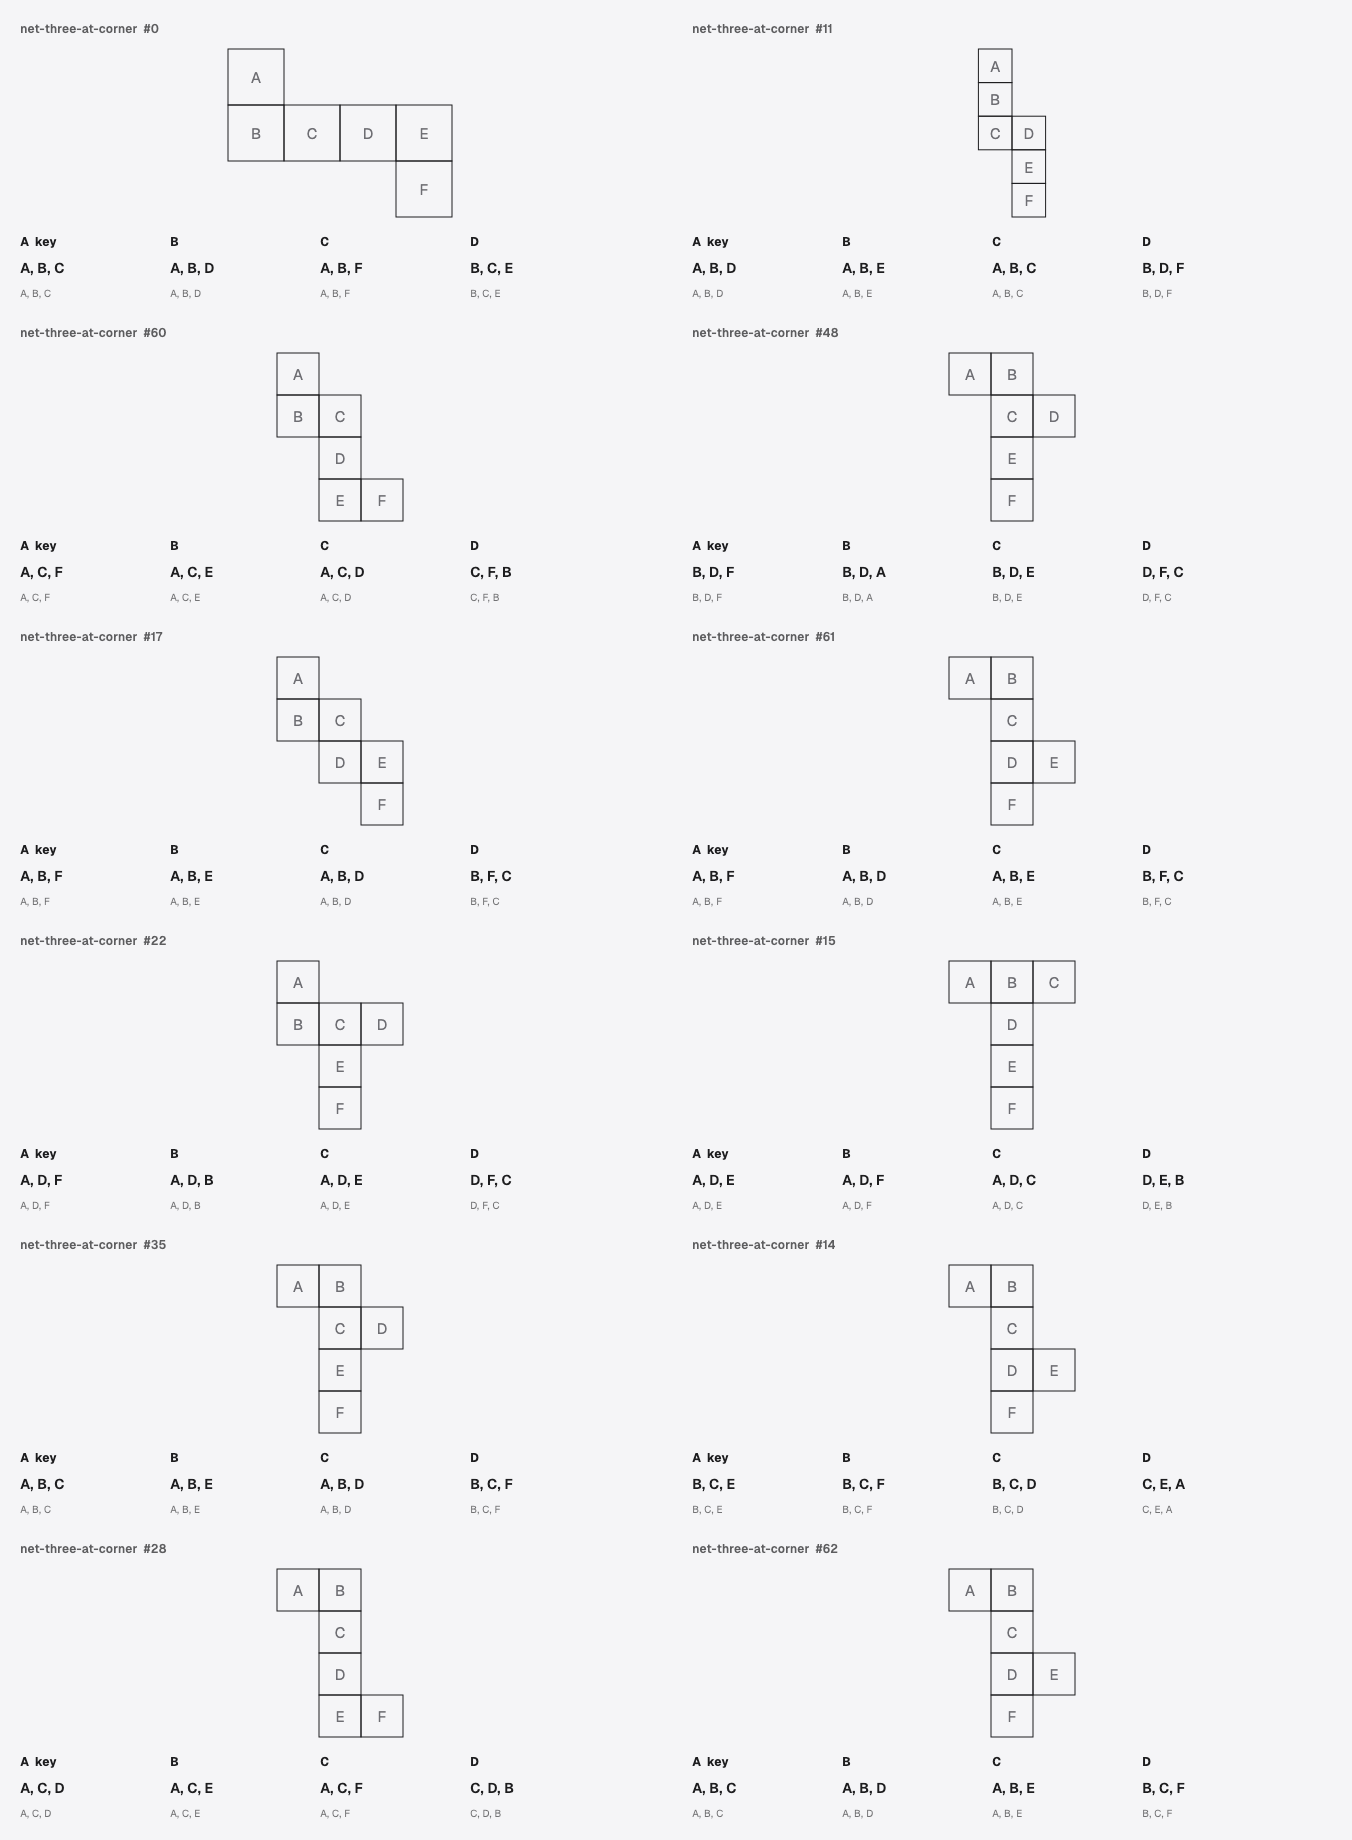
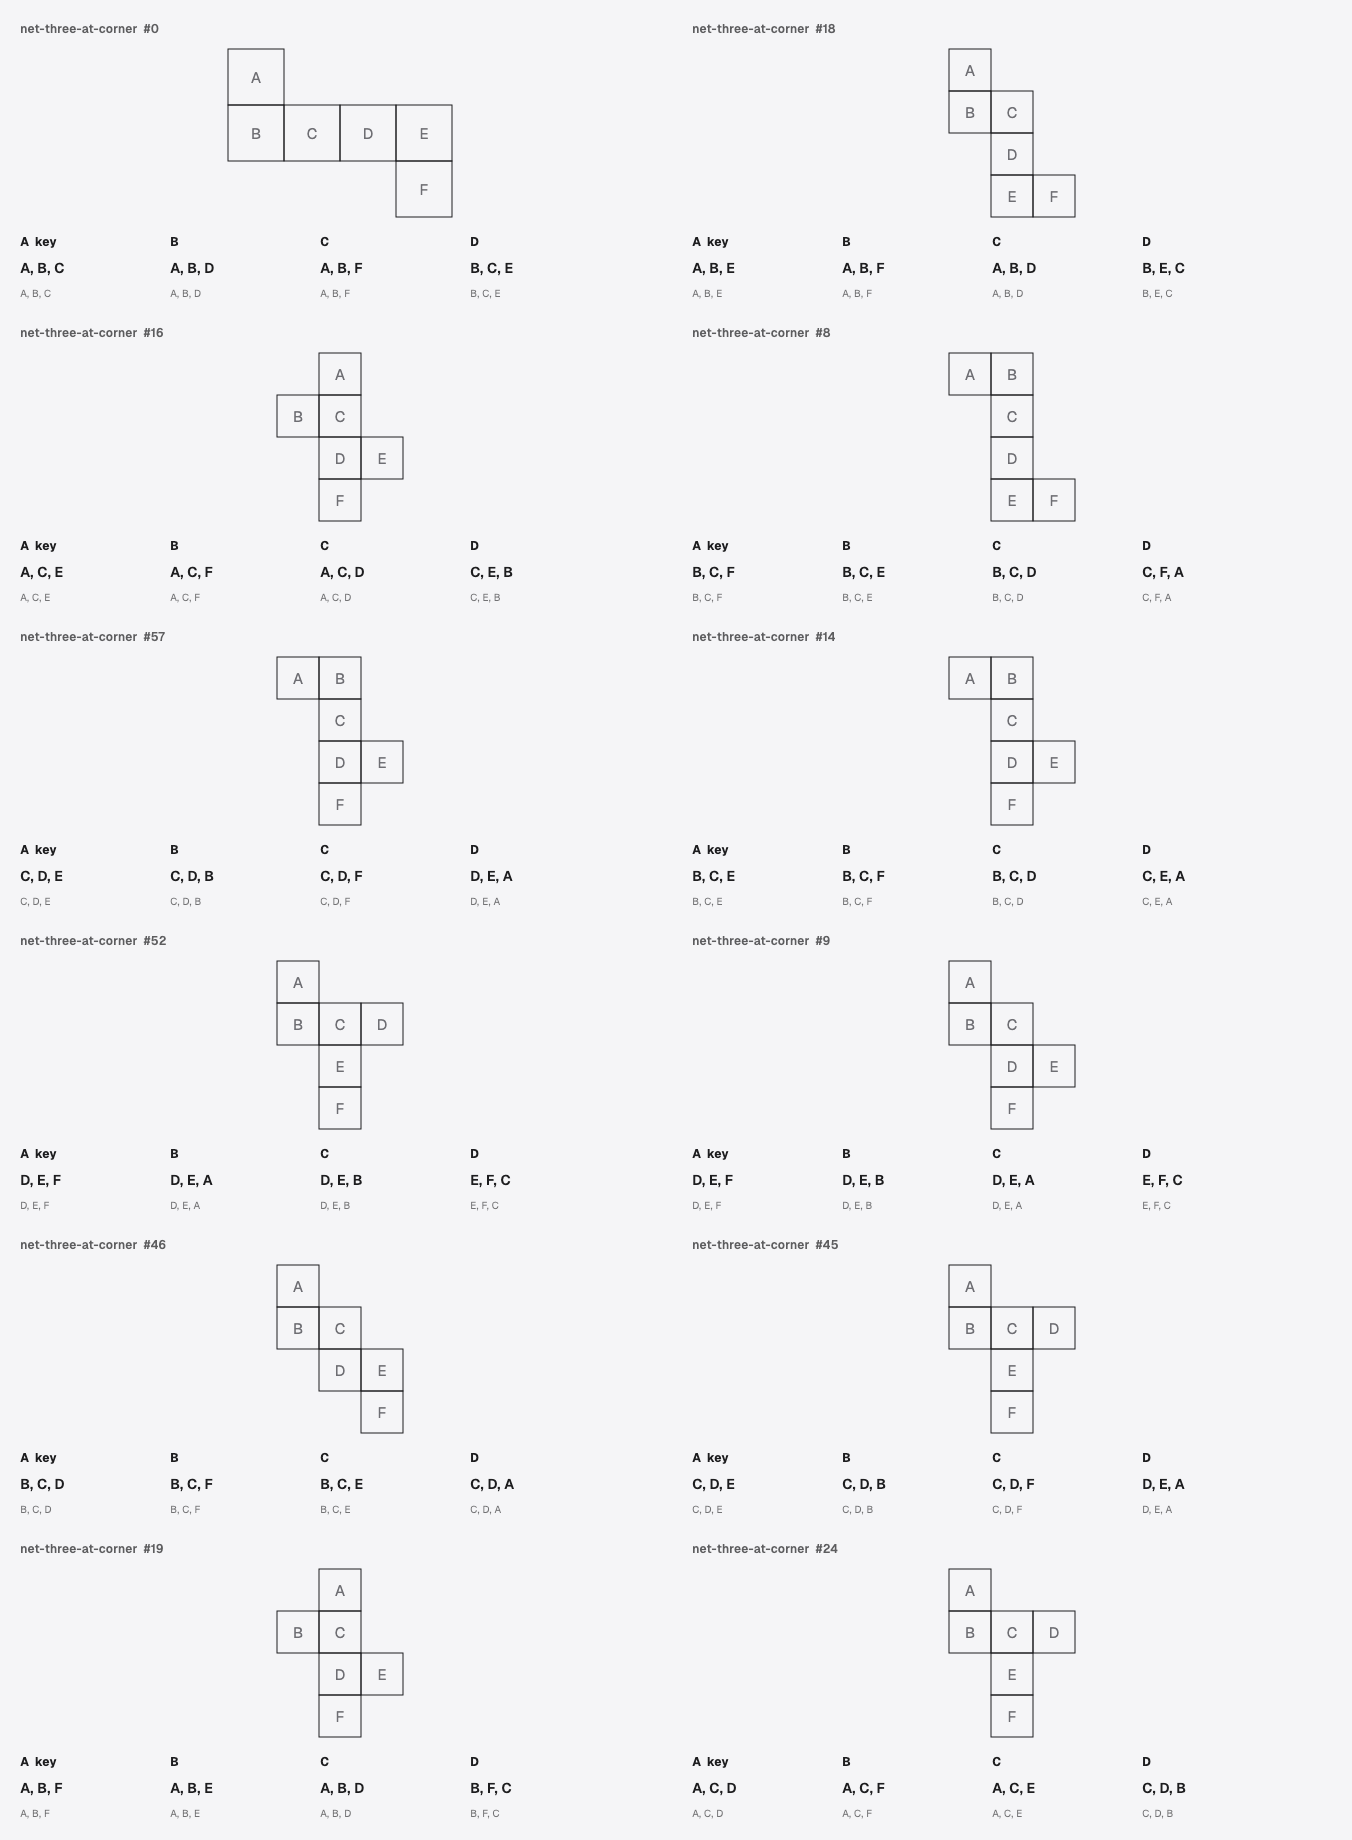
Sheet tool fixes from the independent sheet reviews: choices drawn like their stem in both themes, one shape per shape-row choice, no repeated samples across sheets

diff --git a/test/tool/generator/figure_sheets_test.dart b/test/tool/generator/figure_sheets_test.dart
@@ -51,39 +51,47 @@ Map<String, Map<String, List<Map<String, Object?>>>> _load() {
   return out;
 }
 
-/// Index 0 of each type, then seeded picks spread across the types.
+/// Every sheet of one kind, picked together so no sample shows twice.
 ///
-/// With more types than samples, sheet [sheet] starts [sheet] * 12 types
-/// further along (wrapping), so every type shows on at least one sheet.
-List<_Sample> _pick(
-  Map<String, List<Map<String, Object?>>> types, {
-  int sheet = 0,
-}) {
-  final rng = Random(_seed + sheet);
+/// Each type shows its index 0 first, then seeded picks. Sheet `n` starts
+/// `n * 12` types further along (wrapping), so every type appears and a
+/// type that returns on a later sheet shows an index not yet used.
+List<List<_Sample>> _pickSheets(
+  Map<String, List<Map<String, Object?>>> types,
+  int sheets,
+) {
+  final rng = Random(_seed);
   final all = types.keys.toList();
-  final ids = all.length <= _samples
-      ? all
-      : [
-          for (var i = 0; i < _samples; i++)
-            all[(sheet * _samples + i) % all.length],
-        ];
-  final picked = <_Sample>[for (final id in ids) _Sample(id, types[id]!.first)];
-  final used = {
-    for (final id in ids) id: <int>{0},
+  final order = {
+    for (final id in all)
+      id: [
+        0,
+        ...(List<int>.generate(types[id]!.length - 1, (i) => i + 1)
+          ..shuffle(rng)),
+      ],
   };
-  var round = 0;
-  while (picked.length < _samples) {
-    final id = ids[round % ids.length];
-    round++;
-    final list = types[id]!;
-    if (used[id]!.length >= list.length) continue;
-    int i;
-    do {
-      i = rng.nextInt(list.length);
-    } while (!used[id]!.add(i));
-    picked.add(_Sample(id, list[i]));
+  final next = {for (final id in all) id: 0};
+  final out = <List<_Sample>>[];
+  for (var sheet = 0; sheet < sheets; sheet++) {
+    final start = (sheet * _samples) % all.length;
+    final ids = [
+      for (var i = 0; i < all.length; i++) all[(start + i) % all.length],
+    ];
+    final picked = <_Sample>[];
+    var progress = true;
+    while (picked.length < _samples && progress) {
+      progress = false;
+      for (final id in ids) {
+        if (picked.length >= _samples) break;
+        if (next[id]! >= order[id]!.length) continue;
+        picked.add(_Sample(id, types[id]![order[id]![next[id]!]]));
+        next[id] = next[id]! + 1;
+        progress = true;
+      }
+    }
+    out.add(picked);
   }
-  return picked.take(_samples).toList();
+  return out;
 }
 
 String _shortId(String id) =>
@@ -97,13 +105,16 @@ class _ItemPainter extends CustomPainter {
   final SeriesPalette palette;
 
   @override
-  void paint(Canvas canvas, Size size) => FigureSeriesFigure.paintItem(
-        canvas,
-        item,
-        size.center(Offset.zero),
-        36,
-        palette,
-      );
+  void paint(Canvas canvas, Size size) {
+    palette.paintPanel(canvas, size);
+    FigureSeriesFigure.paintItem(
+      canvas,
+      item,
+      size.center(Offset.zero),
+      36,
+      palette,
+    );
+  }
 
   @override
   bool shouldRepaint(_ItemPainter old) => true;
@@ -113,31 +124,47 @@ class _ItemPainter extends CustomPainter {
 Widget _stem(Map<String, Object?> spec) =>
     FigureRegistry.build(spec) ?? const Text('NO FIGURE');
 
-/// A choice figure: a single item map.
-Widget _choice(BuildContext context, String kind, Map<String, Object?> item) {
+/// The items a spec names, for the palette decision.
+List<SeriesItem?> _items(Map<String, Object?> spec) {
+  final raw = spec['items'] ?? spec['cells'];
+  if (raw is! List) return const [];
+  return [for (final e in raw) FigureSeriesFigure.parseItem(e)];
+}
+
+/// A choice figure: a single item map, drawn on the stem's palette and panel.
+Widget _choice(
+  BuildContext context,
+  String kind,
+  Map<String, Object?> item,
+  Map<String, Object?> stem,
+) {
   if (kind == 'shape-row') {
-    // A shape row needs two shapes; draw two and show the first.
+    // A shape row needs two shapes; draw two and clip to the first slot.
     final row = FigureRegistry.build({
       'kind': 'shape-row',
       'shapes': <Object?>[item, item],
     });
     if (row == null) return const Text('NO FIGURE');
     return ClipRect(
-      child: Align(
-        alignment: Alignment.centerLeft,
-        widthFactor: 0.5,
-        child: SizedBox(width: 280, child: row),
+      child: SizedBox(
+        width: 140,
+        height: 110,
+        child: OverflowBox(
+          alignment: Alignment.centerLeft,
+          minWidth: 280,
+          maxWidth: 280,
+          child: SizedBox(width: 280, child: row),
+        ),
       ),
     );
   }
   final parsed = FigureSeriesFigure.parseItem(item);
   if (parsed == null) return const Text('NO FIGURE');
+  final palette = SeriesPalette.of(context, [..._items(stem), parsed]);
   return SizedBox(
     width: 92,
     height: 92,
-    child: CustomPaint(
-      painter: _ItemPainter(parsed, SeriesPalette.of(context, [parsed])),
-    ),
+    child: CustomPaint(painter: _ItemPainter(parsed, palette)),
   );
 }
 
@@ -197,6 +224,8 @@ Widget _sample(BuildContext context, String kind, _Sample s) {
                                 context,
                                 kind,
                                 choices[i]['figure']! as Map<String, Object?>,
+                                s.variant['figureSpec']!
+                                    as Map<String, Object?>,
                               ),
                             ),
                           ),
@@ -226,6 +255,7 @@ void main() {
   final byKind = _load();
   for (final kind in _kinds) {
     final sheets = (byKind[kind]!.length / _samples).ceil();
+    final picks = _pickSheets(byKind[kind]!, sheets);
     for (var sheet = 0; sheet < sheets; sheet++) {
       for (final dark in [false, true]) {
         final name = '$kind-${dark ? 'dark' : 'light'}'
@@ -243,7 +273,7 @@ void main() {
               ..physicalSize = const Size(2000, 4000)
               ..devicePixelRatio = 1;
             addTearDown(tester.view.reset);
-            final samples = _pick(byKind[kind]!, sheet: sheet);
+            final samples = picks[sheet];
             final key = GlobalKey();
             await tester.pumpWidget(
               MaterialApp(
